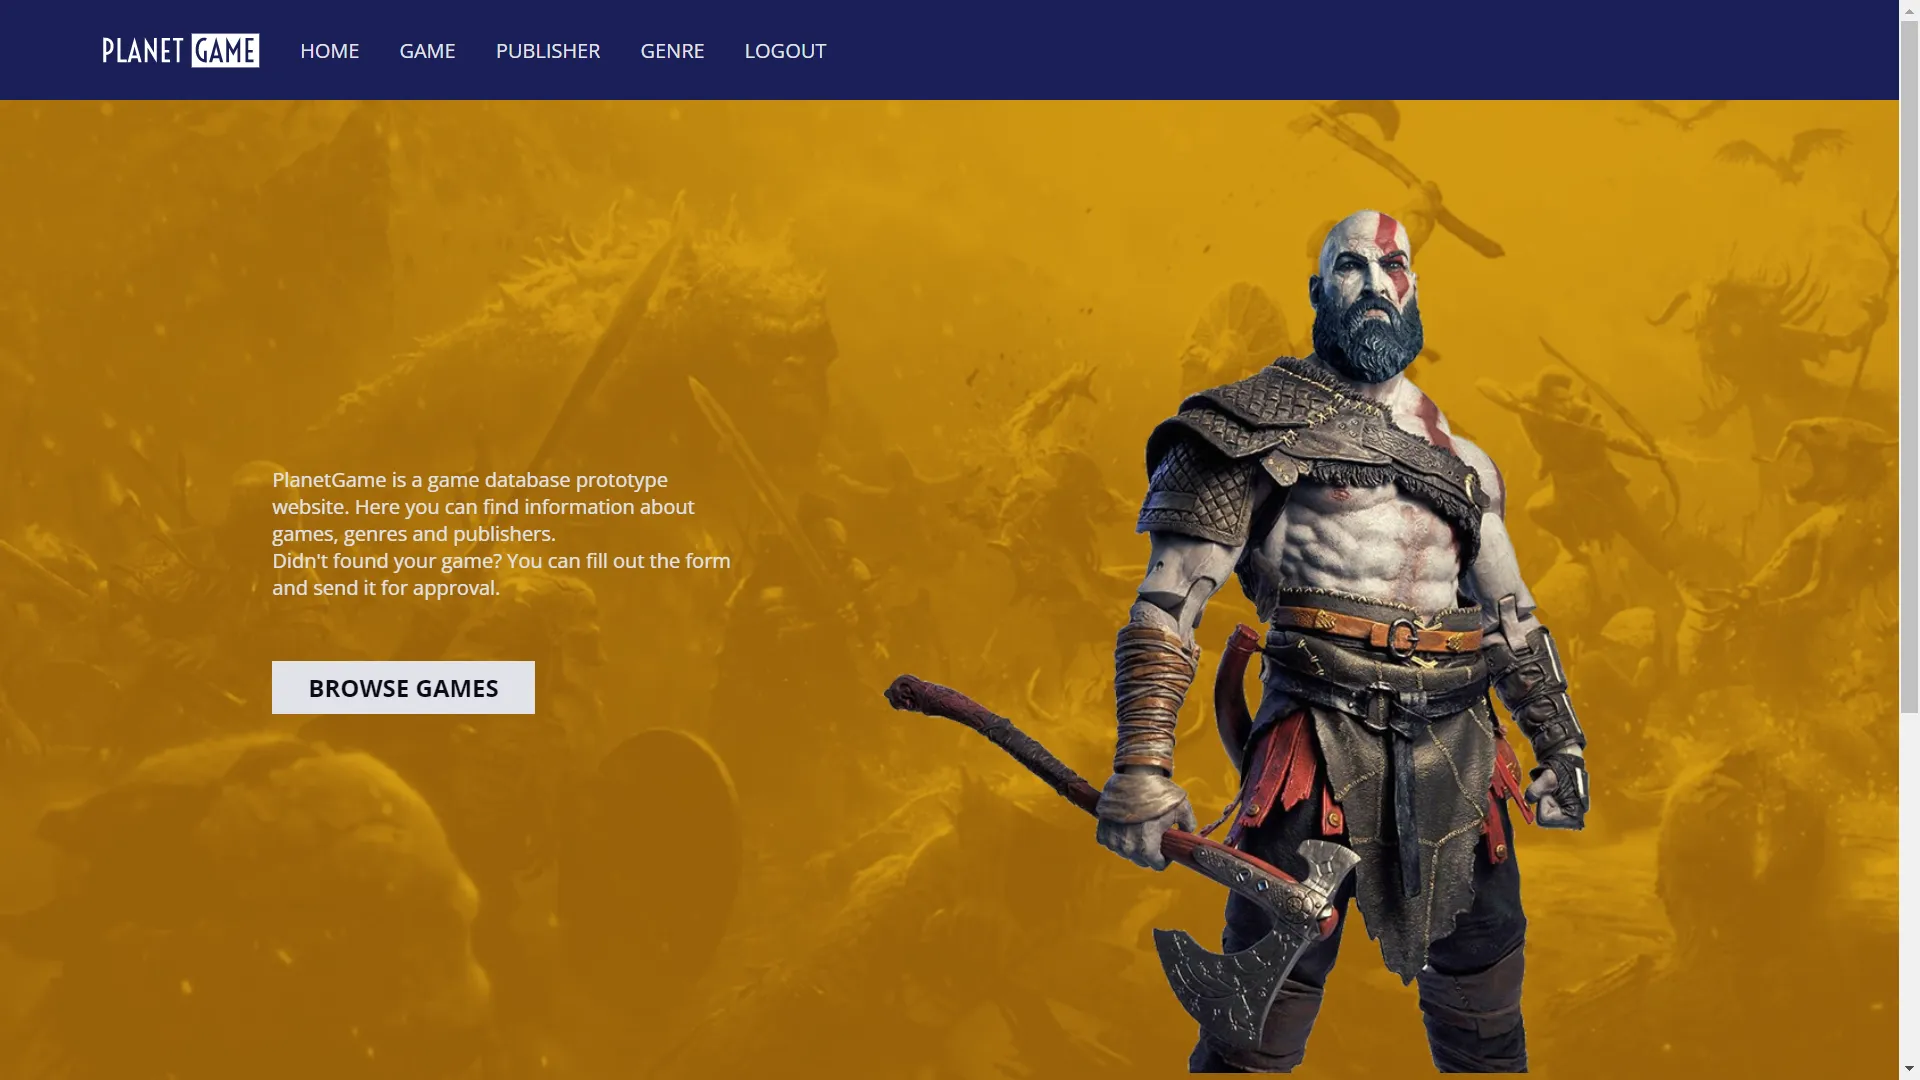
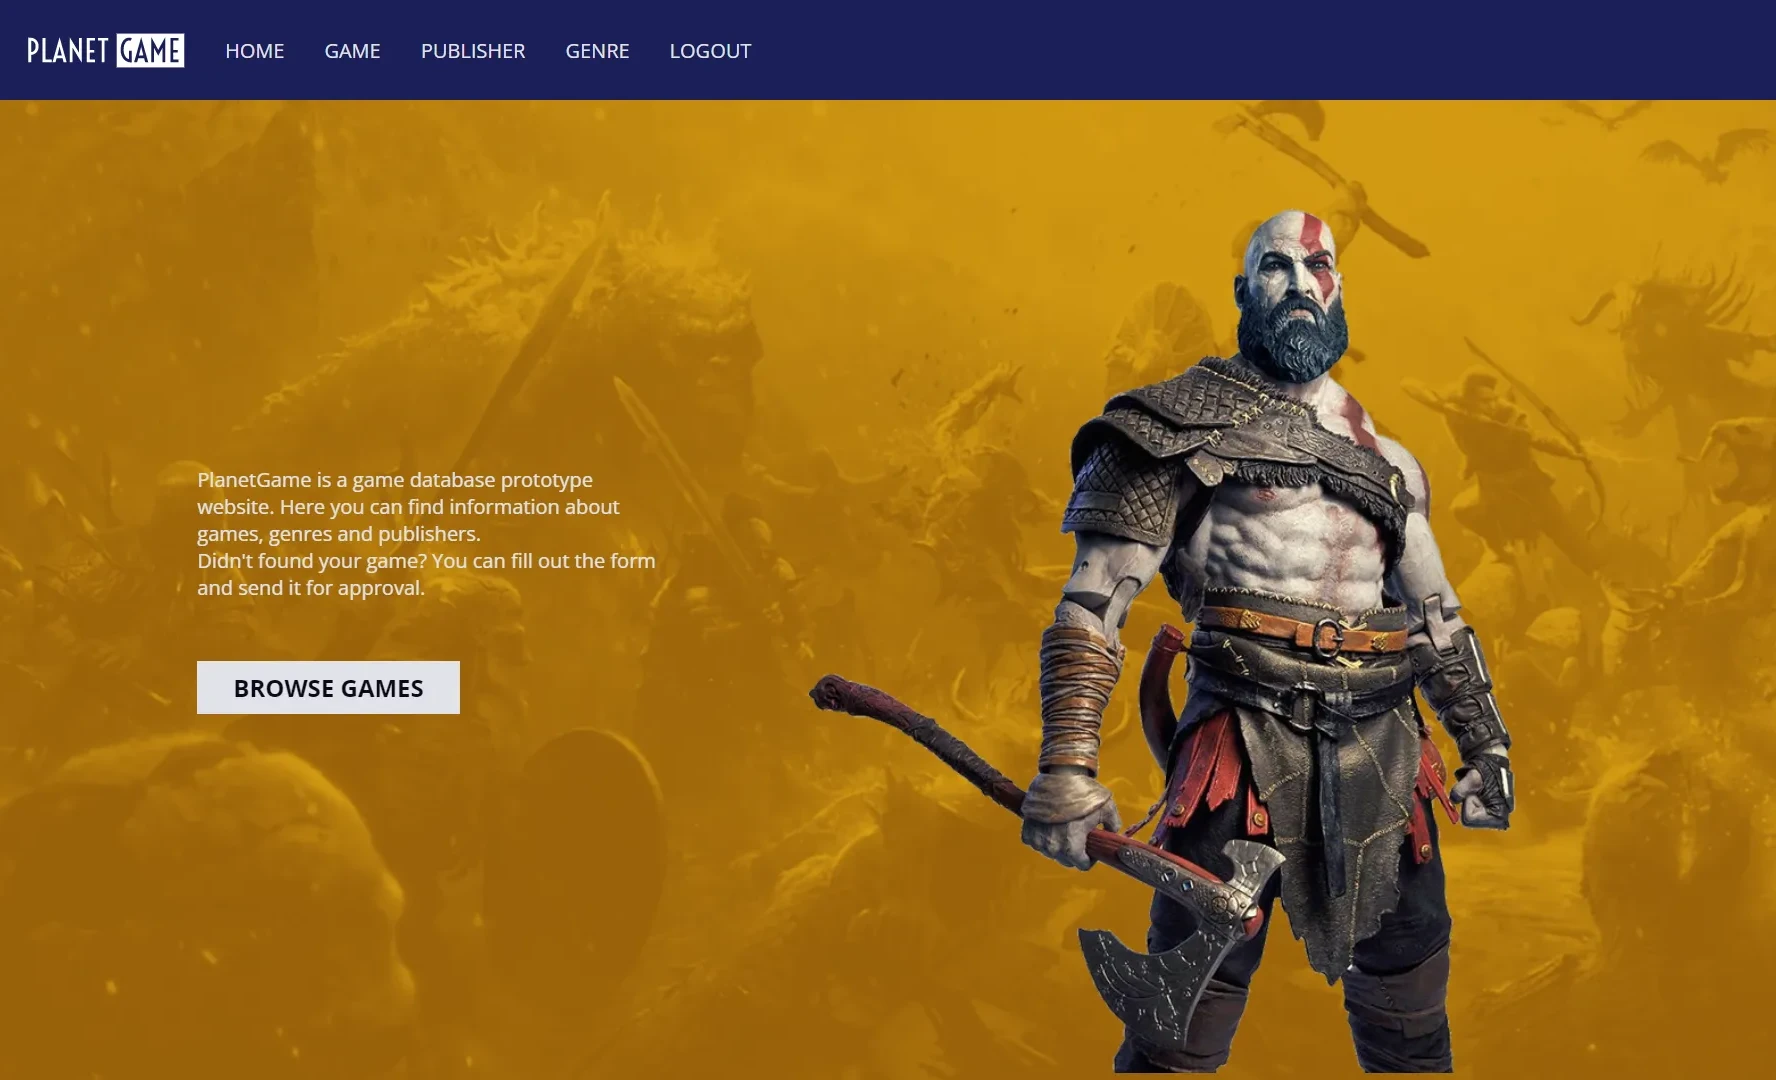
Updated image sizes

diff --git a/README.md b/README.md
@@ -112,10 +112,10 @@
 
 <h4>Mobile</h4>
 <div style="display: flex; gap: 0.2rem">
-    <img alt="Mobile 1" title="Main Page" src="./public/images/github/1_m.webp" height="340"/>
-    <img alt="Mobile 2" title="Hamburger Menu" src="./public/images/github/2_m.webp" height="340"/>
-    <img alt="Mobile 3" title="Data Table" src="./public/images/github/3_m.webp" height="340"/>
-    <img alt="Mobile 4" title="New Game Form" src="./public/images/github/4_m.webp" height="340"/>
+    <img alt="Mobile 1" title="Main Page" src="./public/images/github/1_m.webp" height="360"/>
+    <img alt="Mobile 2" title="Hamburger Menu" src="./public/images/github/2_m.webp" height="360"/>
+    <img alt="Mobile 3" title="Data Table" src="./public/images/github/3_m.webp" height="360"/>
+    <img alt="Mobile 4" title="New Game Form" src="./public/images/github/4_m.webp" height="360"/>
 </div>
 
 <h4>Desktop</h4>
@@ -123,18 +123,18 @@
 <div style="display: flex; flex-direction: column; gap: 0.2rem">
 
 <div style="display: flex; gap: 0.2rem">
-    <img alt="Desktop 1" title="Main Page" src="./public/images/github/1_d.webp" height="280"/>
-    <img alt="Desktop 2" title="Data table" src="./public/images/github/2_d.webp" height="280"/>
+    <img alt="Desktop 1" title="Main Page" src="./public/images/github/1_d.webp" height="240"/>
+    <img alt="Desktop 2" title="Data table" src="./public/images/github/2_d.webp" height="240"/>
 </div>
 
 <div style="display: flex; gap: 0.2rem">
-    <img alt="Desktop 3" title="New Game Form" src="./public/images/github/3_d.webp" height="280"/>
-    <img alt="Desktop 4" title="Admin Login Form" src="./public/images/github/4_d.webp" height="280"/>
+    <img alt="Desktop 3" title="New Game Form" src="./public/images/github/3_d.webp" height="240"/>
+    <img alt="Desktop 4" title="Admin Login Form" src="./public/images/github/4_d.webp" height="240"/>
 </div>
 
 <div style="display: flex; gap: 0.2rem">
-    <img alt="Desktop 5" title="Admin Panel" src="./public/images/github/5_d.webp" height="280"/>
-    <img alt="Desktop 6" title="Admin Actions" src="./public/images/github/6_d.webp" height="280"/>
+    <img alt="Desktop 5" title="Admin Panel" src="./public/images/github/5_d.webp" height="240"/>
+    <img alt="Desktop 6" title="Admin Actions" src="./public/images/github/6_d.webp" height="240"/>
 </div>
 
 </div>
